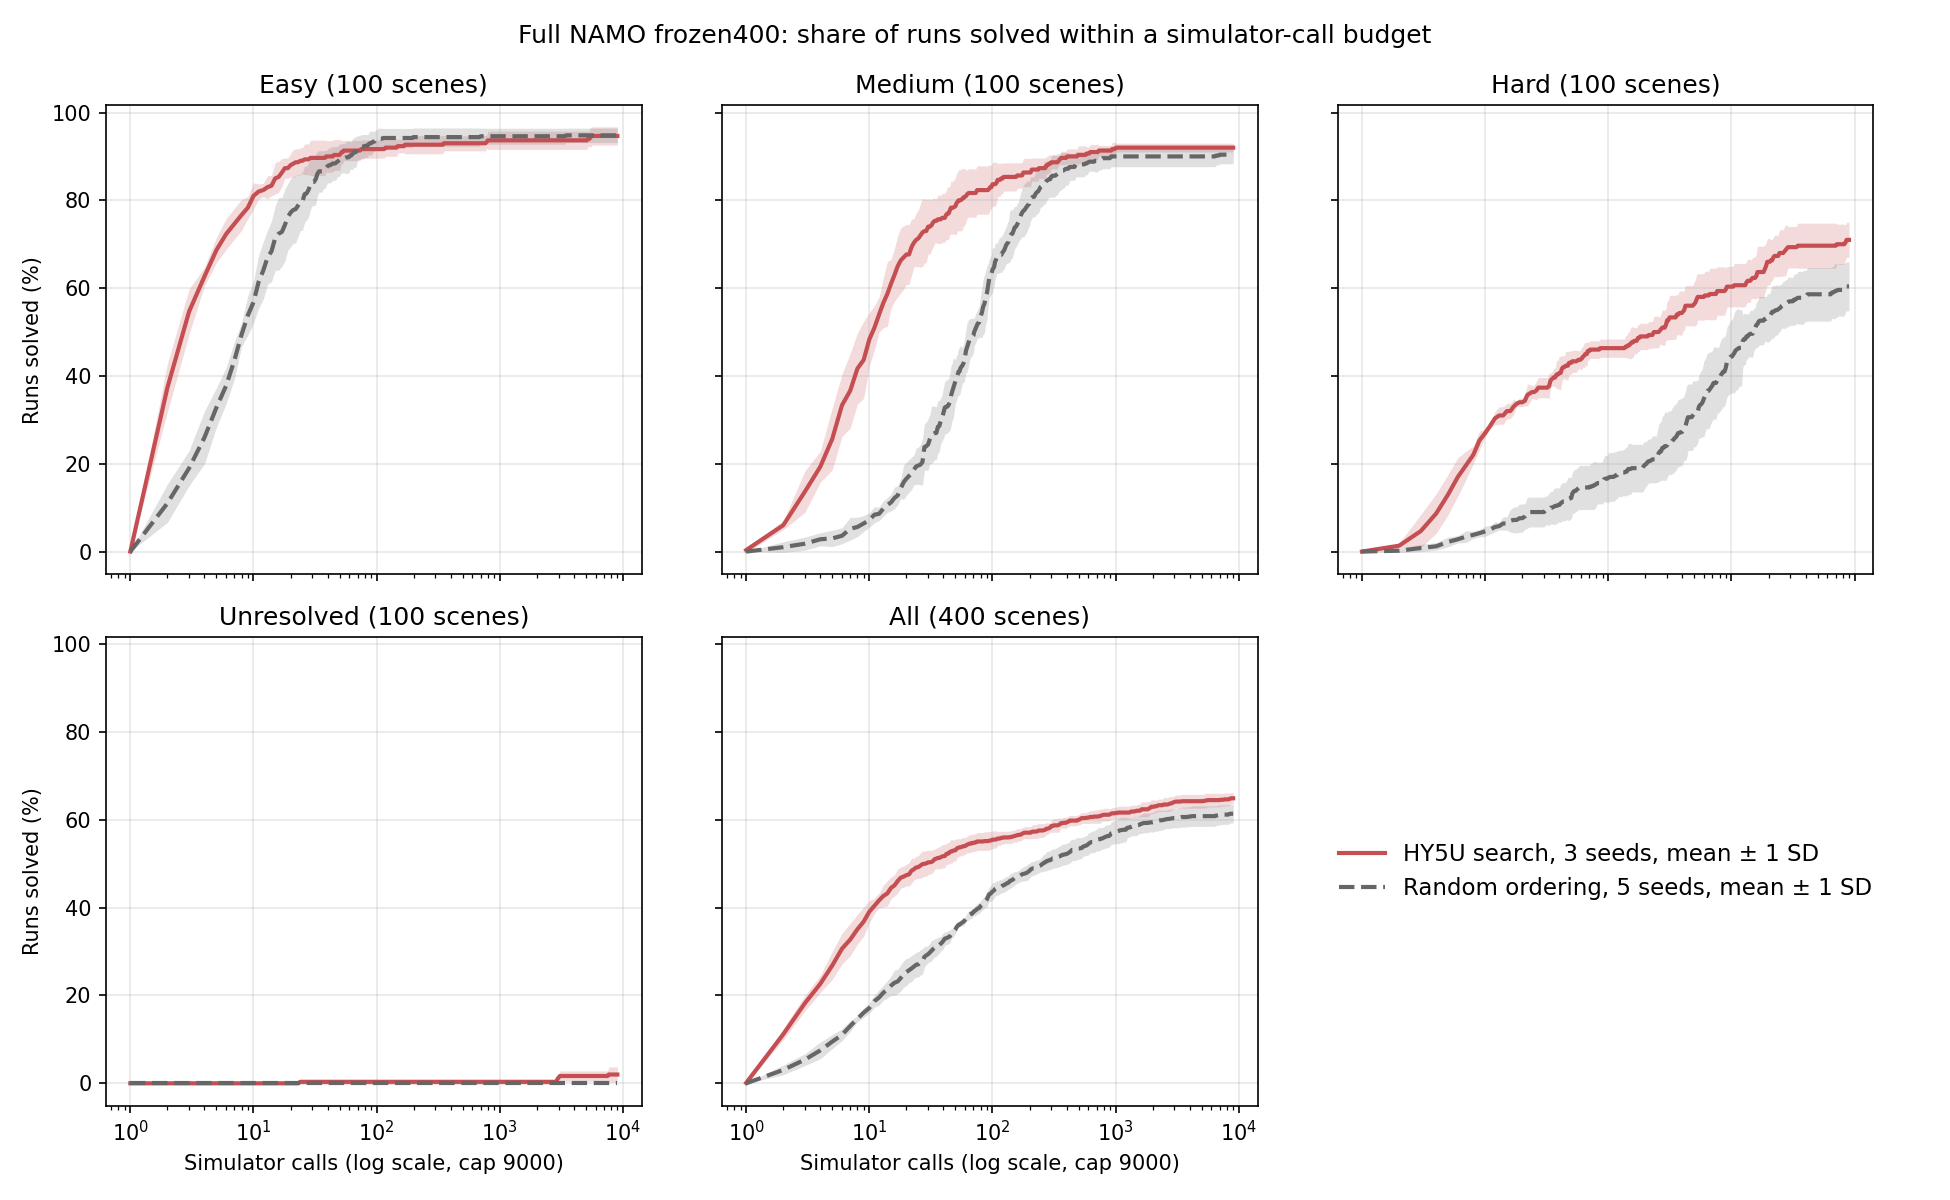
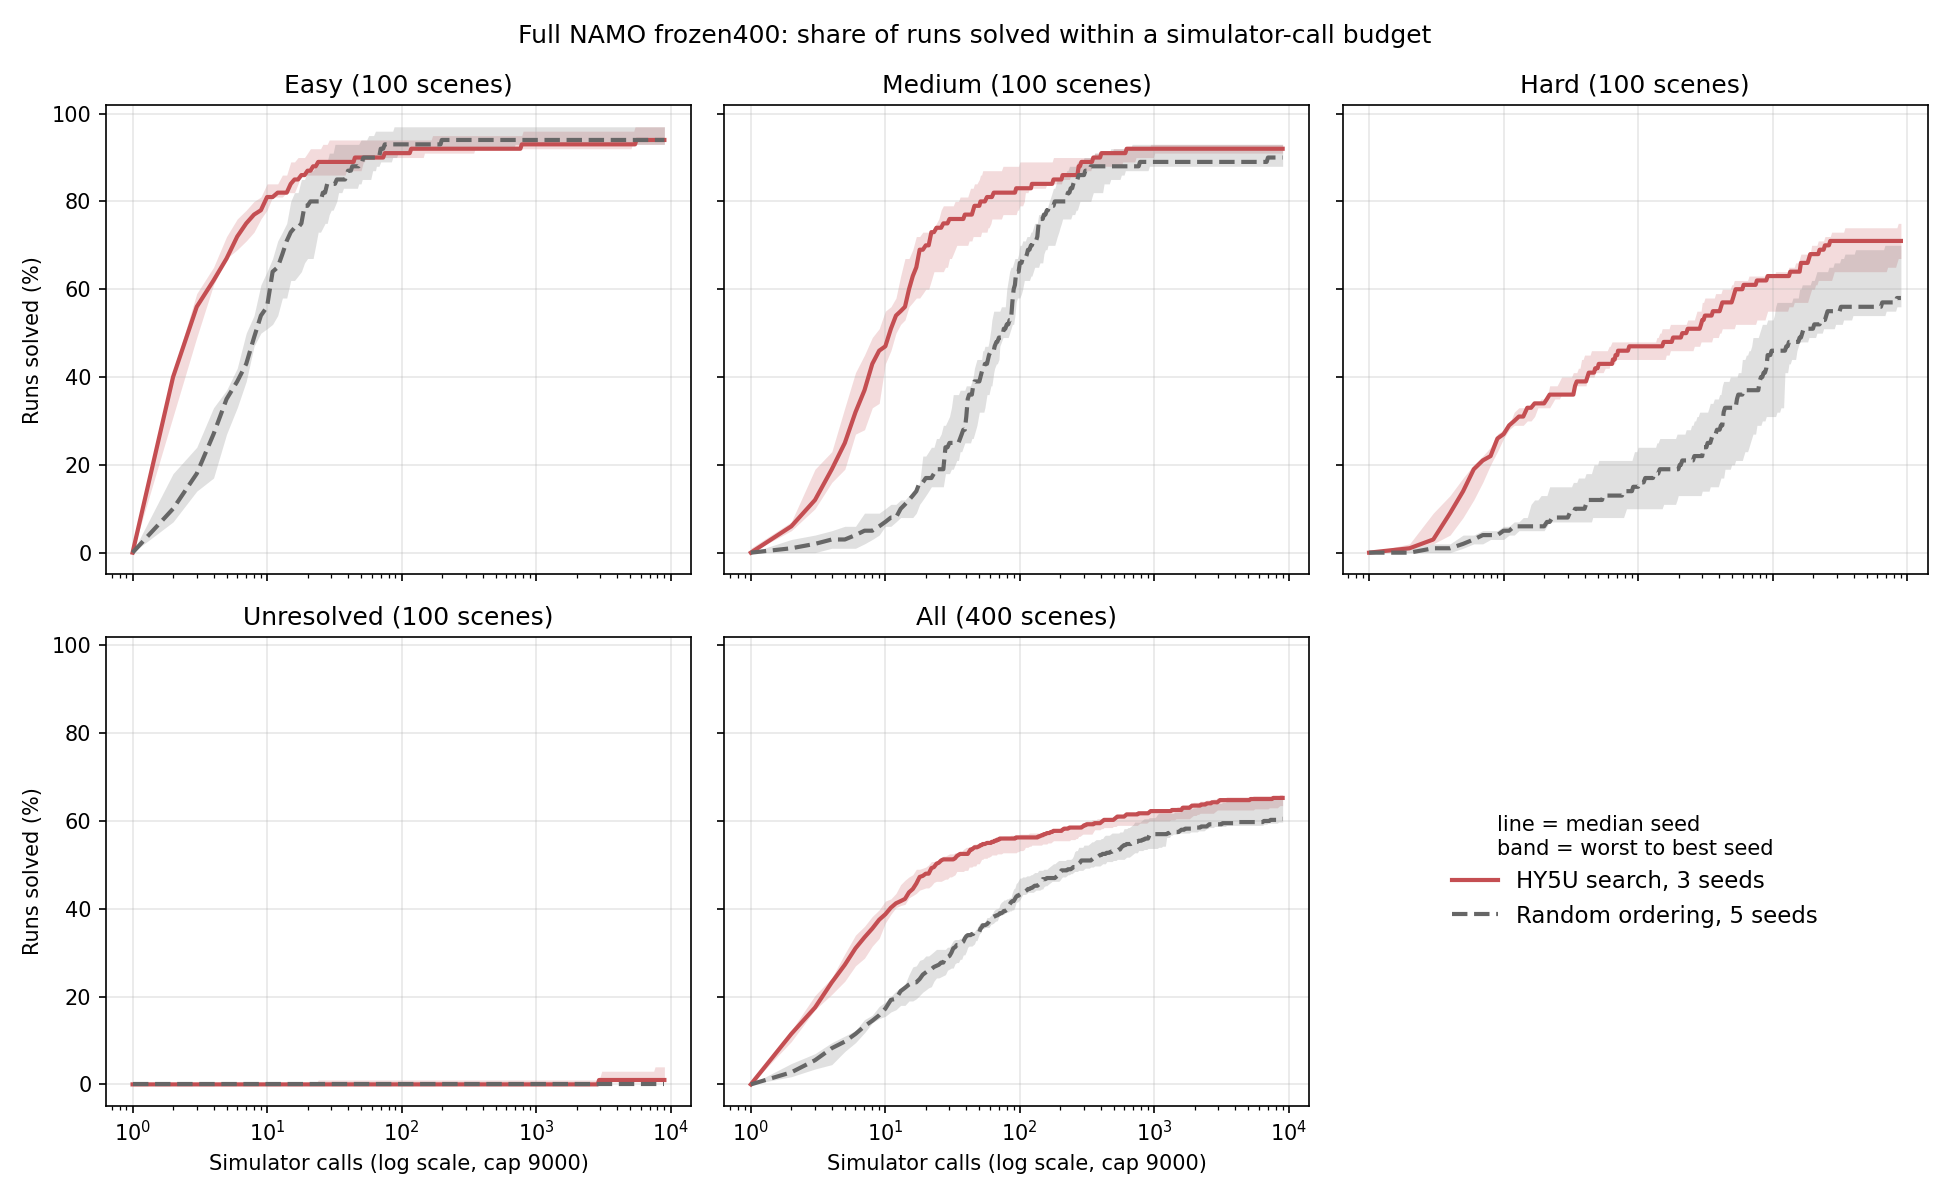
Draw Full NAMO seed bands from worst to best seed around the median
With 3 HY5U seeds, a standard deviation is an estimate from three
numbers; a worst-to-best band shows every seed that ran. The line is now
the median seed at each budget.

HY5U's worst seed beats Random's best seed from 2 to 19 calls on easy,
2 to 182 on medium, 4 to 1,030 on hard and 2 to 668 over all scenes;
Random's worst seed never beats HY5U's best.

Claude-Session: https://claude.ai/code/session_01HYfy3QfKjPbpp6TG2p7QoP

diff --git a/scripts/pipeline/report_full_namo_rerun.py b/scripts/pipeline/report_full_namo_rerun.py
@@ -172,7 +172,7 @@ def main():
 
 
 def plot_success_vs_calls(path, hy5u, random, problems):
-    """Share of runs solved within k simulator calls, one panel per tier: mean over seeds ± 1 sample SD."""
+    """Share of runs solved within k simulator calls, one panel per tier: median seed, band from worst to best seed."""
     import matplotlib
     matplotlib.use("Agg")
     import matplotlib.pyplot as plt
@@ -191,9 +191,8 @@ def plot_success_vs_calls(path, hy5u, random, problems):
                     costs[row[seed_key]].append(cost(row))
             curves = np.array([100 * np.searchsorted(np.sort(c), budgets, side="right") / len(c)
                                for c in costs.values()])
-            mean, sd = curves.mean(axis=0), curves.std(axis=0, ddof=1)
-            ax.plot(budgets, mean, lw=2, label=f"{label}, mean ± 1 SD", **style)
-            ax.fill_between(budgets, mean - sd, mean + sd, color=style["color"], alpha=0.2, lw=0)
+            ax.plot(budgets, np.median(curves, axis=0), lw=2, label=label, **style)
+            ax.fill_between(budgets, curves.min(axis=0), curves.max(axis=0), color=style["color"], alpha=0.2, lw=0)
         ax.set_xscale("log")
         ax.set_title(f"{tier.capitalize()} ({len(pids)} scenes)")
         ax.grid(alpha=0.3)
@@ -202,7 +201,8 @@ def plot_success_vs_calls(path, hy5u, random, problems):
     for ax in axes[:, 0]:
         ax.set_ylabel("Runs solved (%)")
     axes[1, 2].axis("off")
-    axes[1, 2].legend(*axes[0, 0].get_legend_handles_labels(), loc="center", frameon=False, fontsize=11)
+    axes[1, 2].legend(*axes[0, 0].get_legend_handles_labels(), loc="center", frameon=False, fontsize=11,
+                      title="line = median seed\nband = worst to best seed", title_fontsize=10)
     fig.suptitle("Full NAMO frozen400: share of runs solved within a simulator-call budget")
     fig.tight_layout()
     path.parent.mkdir(parents=True, exist_ok=True)

diff --git a/docs/experiments/log/EXP-2026-09-14-full-namo-goal-fix-rerun.md b/docs/experiments/log/EXP-2026-09-14-full-namo-goal-fix-rerun.md
@@ -38,9 +38,9 @@ All 1,200 HY5U rows share source fingerprint `22577f4a`, binding `cc2d2e9e`, Sag
 
 ## Result
 
-![Share of runs solved within a simulator-call budget, HY5U 3 seeds vs Random 5 seeds, mean ± 1 SD](../plots/full_namo_rerun_20260914/success_vs_sims.png)
+![Share of runs solved within a simulator-call budget, HY5U 3 seeds vs Random 5 seeds, median with worst-to-best seed band](../plots/full_namo_rerun_20260914/success_vs_sims.png)
 
-Success vs simulator calls: HY5U's band sits above Random's at every budget on hard and overall. On easy, Random catches up near 50 calls and stays about 1-2 points ahead until the cap; on medium the curves meet near 1000 calls. Drawn by `report_full_namo_rerun.py --plot`; bands are ±1 sample SD across seeds.
+Success vs simulator calls, drawn by `report_full_namo_rerun.py --plot`. The line is the median seed at each budget and the band runs from the worst seed to the best, so every seed we ran sits inside it. HY5U's worst seed beats Random's best seed from 2 to 19 calls on easy, 2 to 182 on medium, 4 to 1,030 on hard, and 2 to 668 over all 400 scenes. Past those budgets the bands overlap, and at no budget does Random's worst seed beat HY5U's best.
 
 Solved, percent of runs within 9000 calls. Seed ranges in brackets.
 
